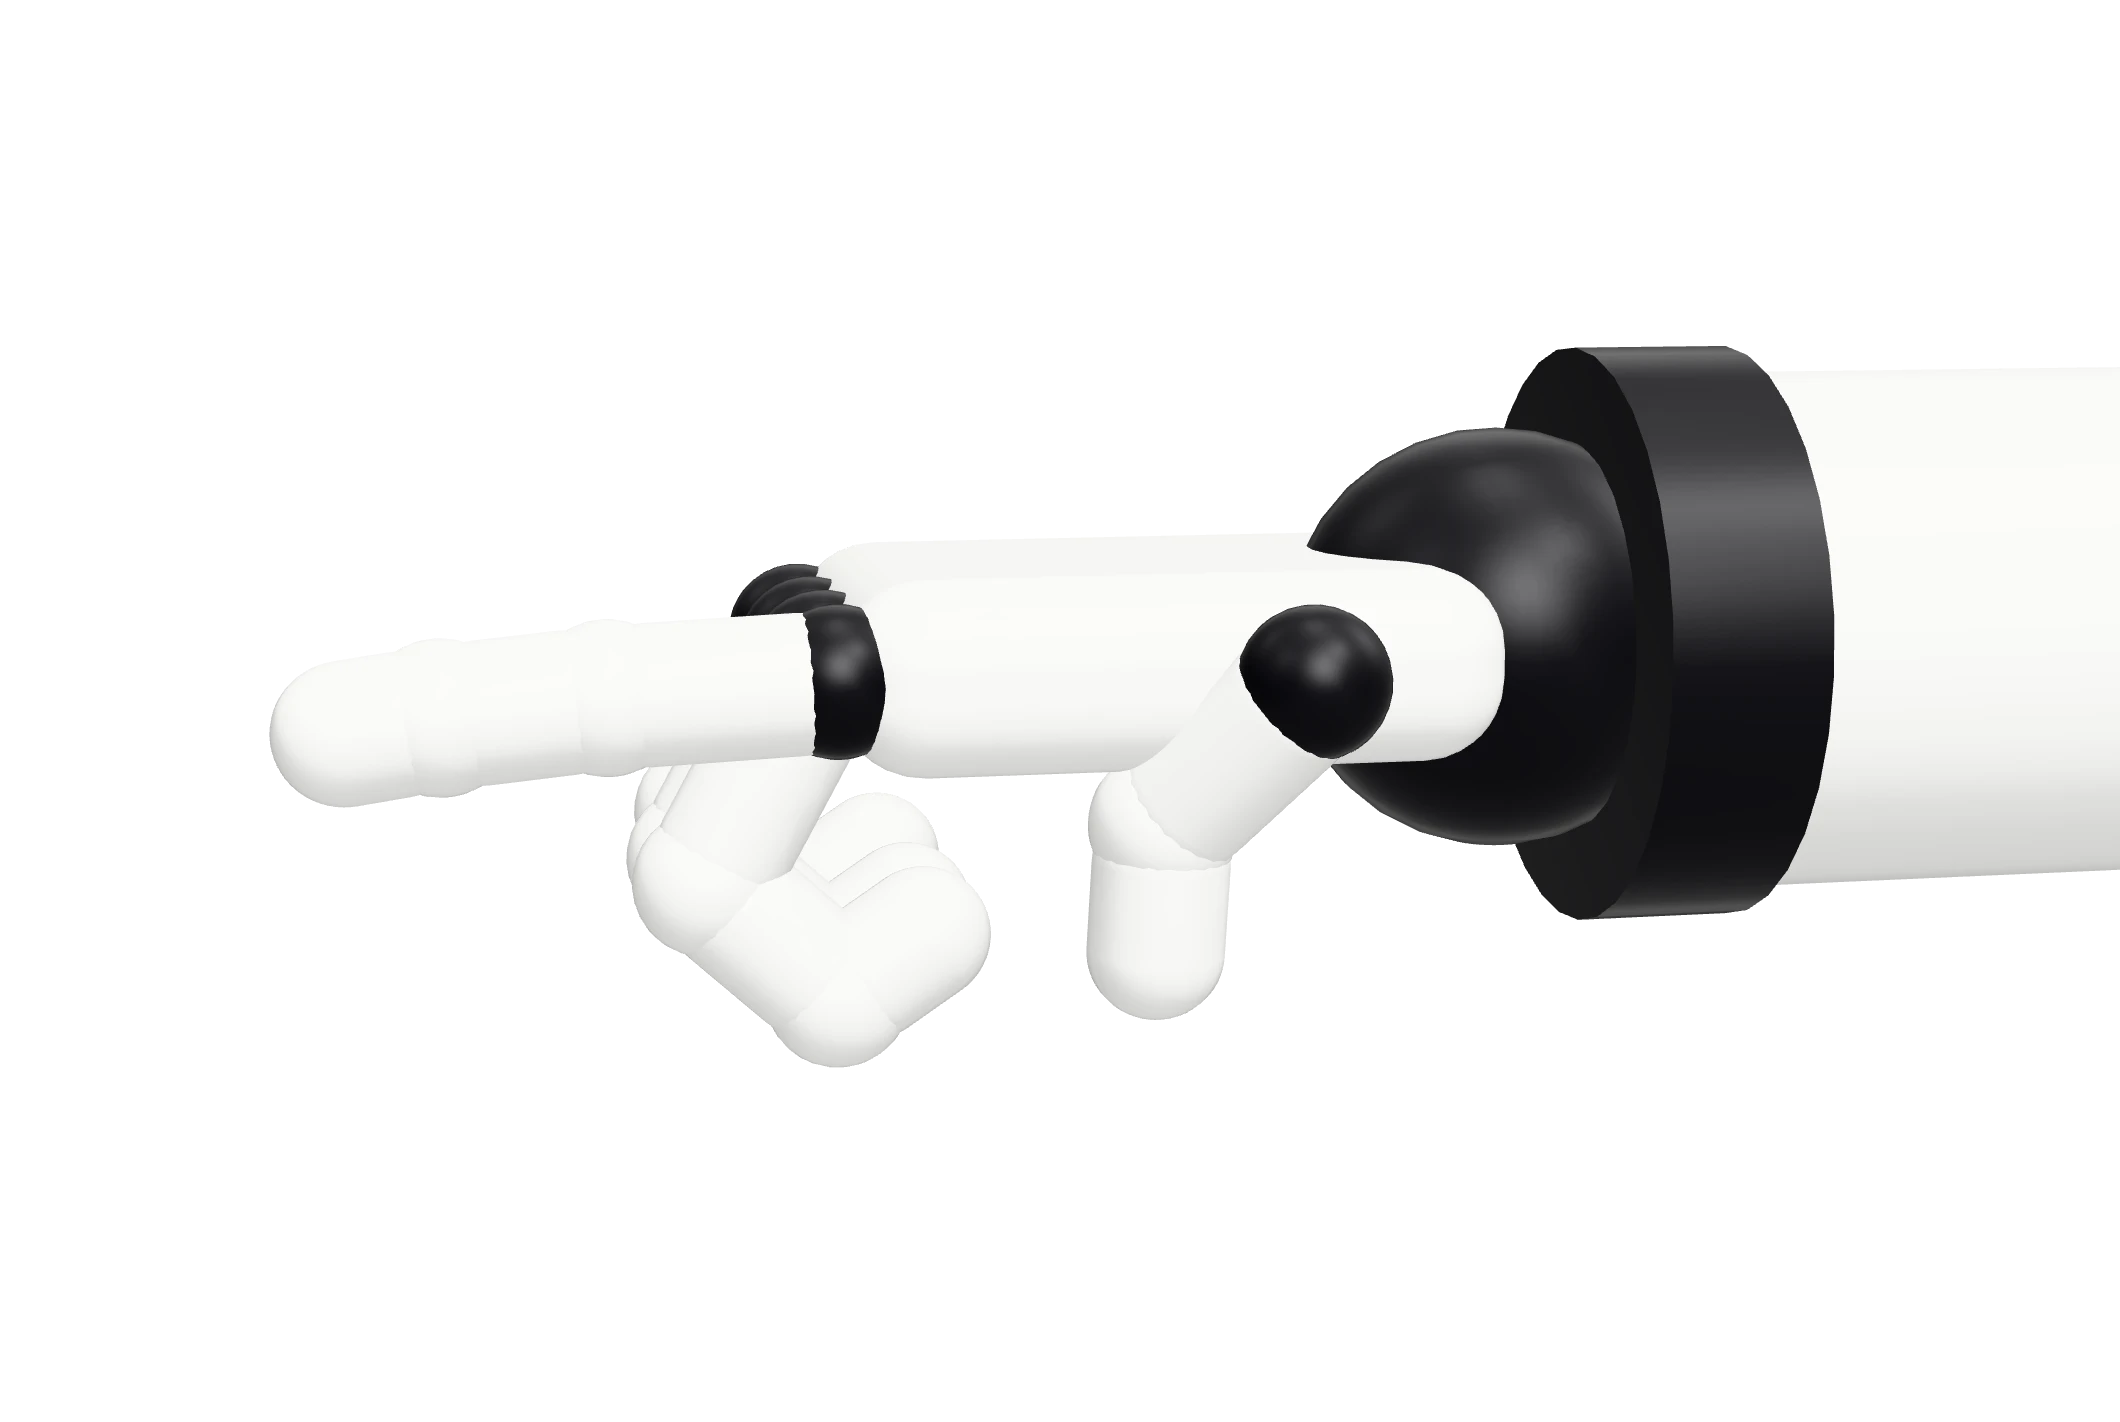
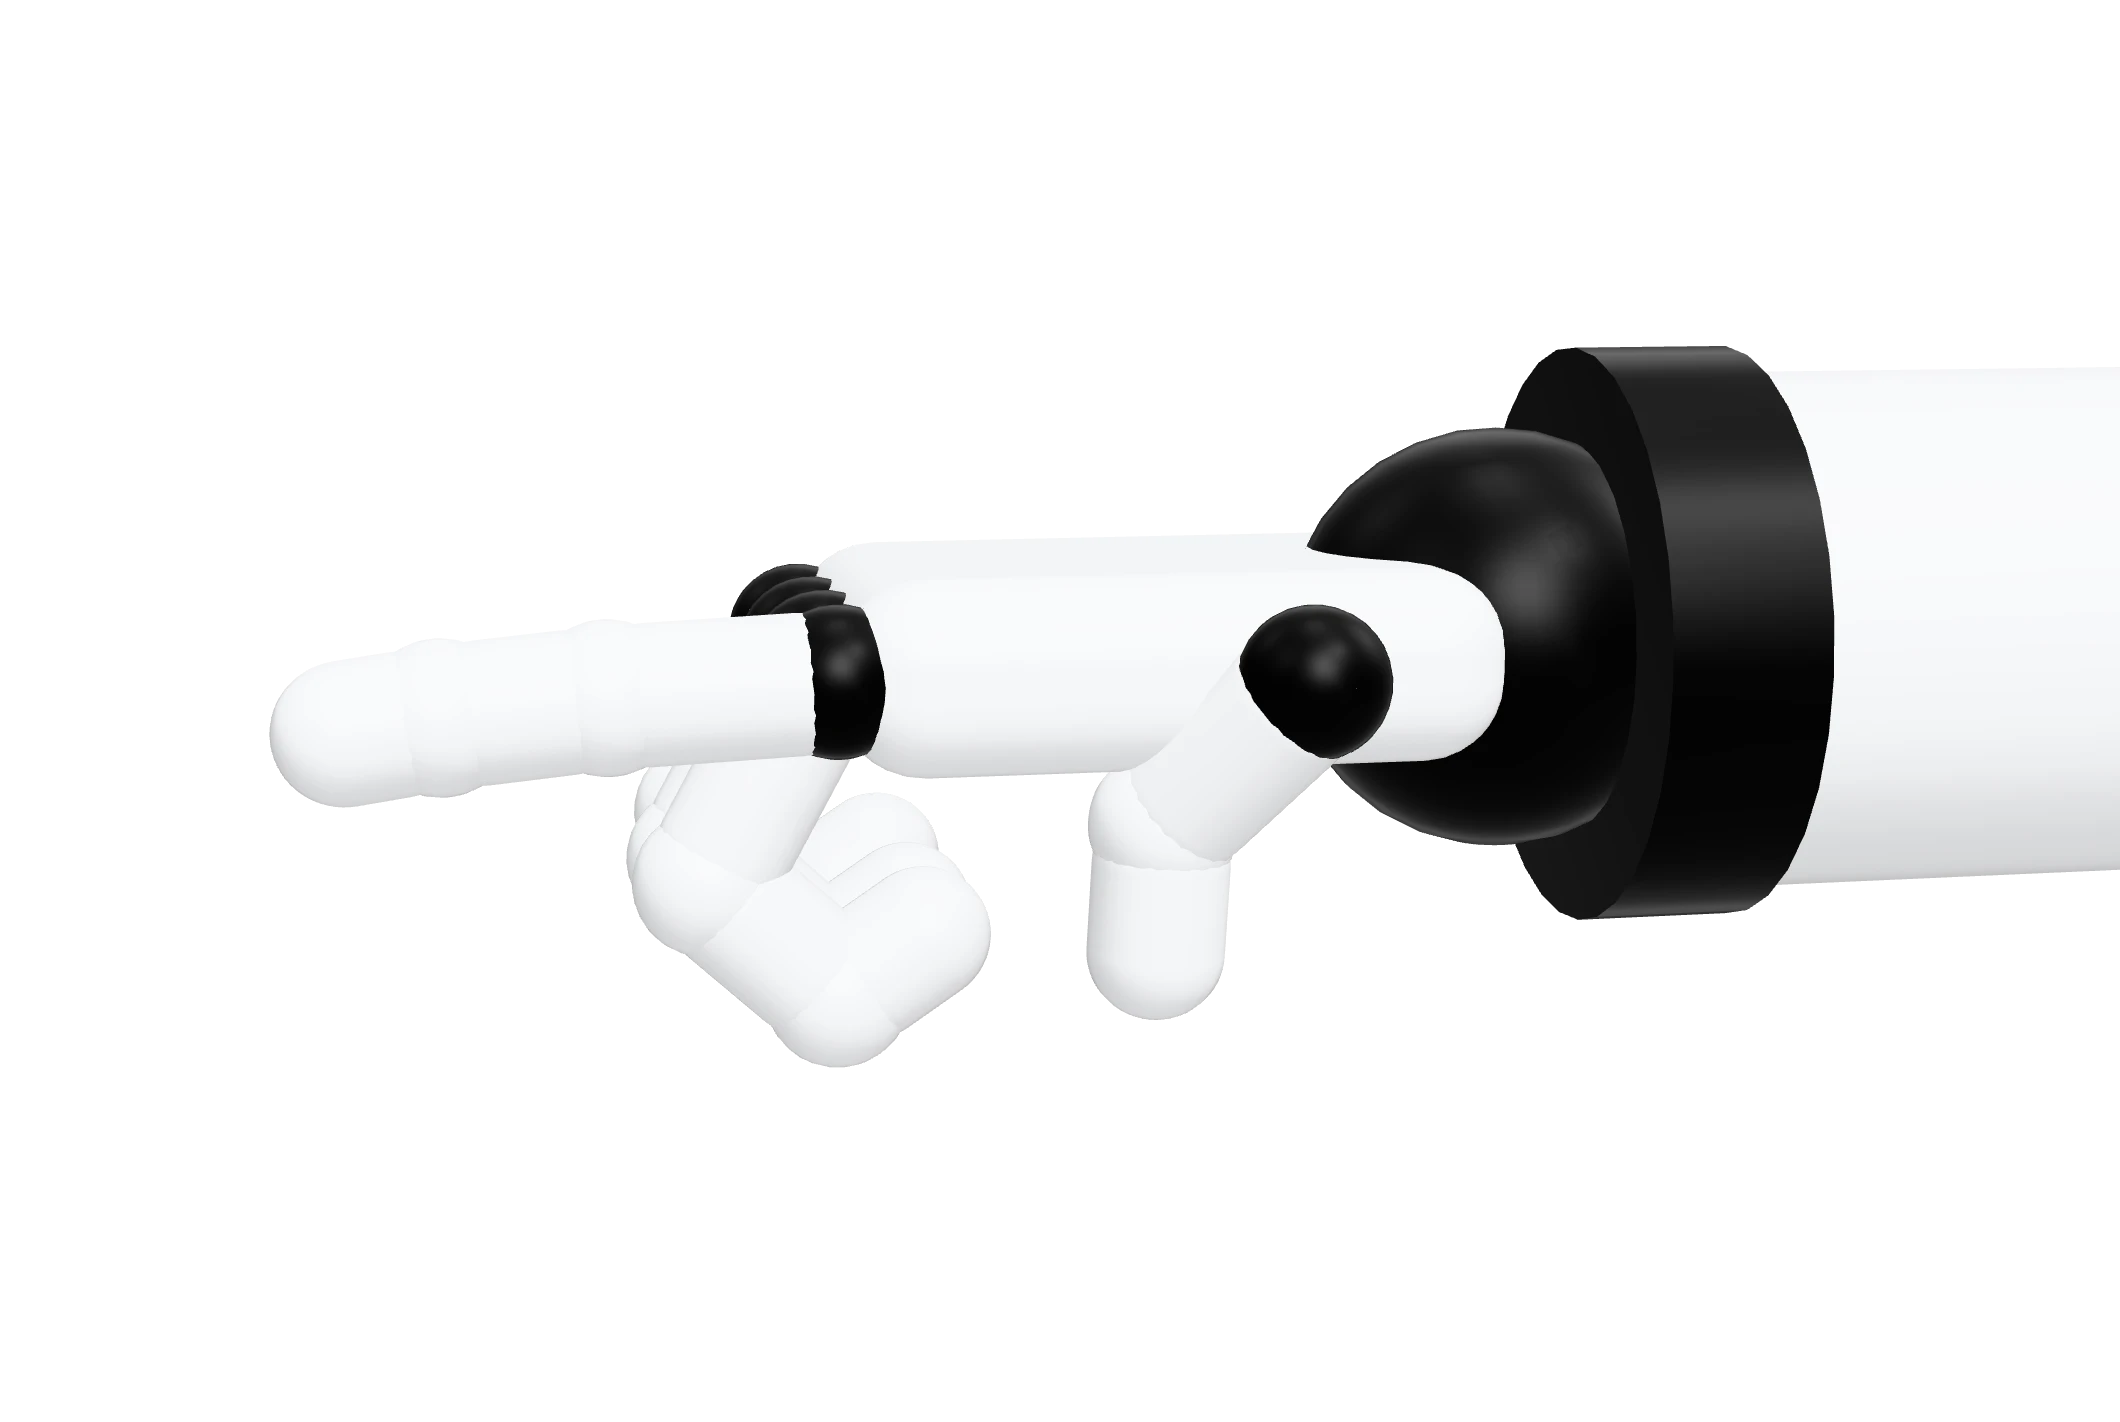
Robots: v4 materials and re-rendered posters
Posters re-rendered with tools/posters.html from the v4 robot tokens
(paper shell, ink joints, red status light). Sizes and humanoid callout
anchors are unchanged; total poster weight 235 KB.

Claude-Session: https://claude.ai/code/session_011B8BzpV6RcPyym9DdTZKXD

Changed region(s): [[0.6538, 0.2785, 0.8717, 0.4641], [0.5915, 0.4332, 0.6538, 0.4951], [0.3736, 0.4332, 0.4358, 0.4951]]

diff --git a/tests/browser/cast.test.html b/tests/browser/cast.test.html
@@ -103,6 +103,15 @@ test('materials come from tokens', () => {
   assert(Math.abs(mats.visor.color.g - mats.joint.color.g * 0.2) < 1e-9, 'visor is not joint x 0.2');
 });
 
+test('page robot tokens resolve through their aliases to v4 colours', () => {
+  // tokens.css defines --robot-shell: var(--paper) etc.; Three.js needs the resolved hex.
+  const tokens = readTokens();
+  const mats = createMaterials(tokens);
+  assertEqual(mats.shell.color.getHexString(), new THREE.Color('#F4F5F7').getHexString(), 'shell = --paper');
+  assertEqual(mats.joint.color.getHexString(), new THREE.Color('#141414').getHexString(), 'joint = --ink');
+  assertEqual(mats.signal.emissive.getHexString(), new THREE.Color('#D7261E').getHexString(), 'signal = --red');
+});
+
 await run();
 </script>
 </body>
